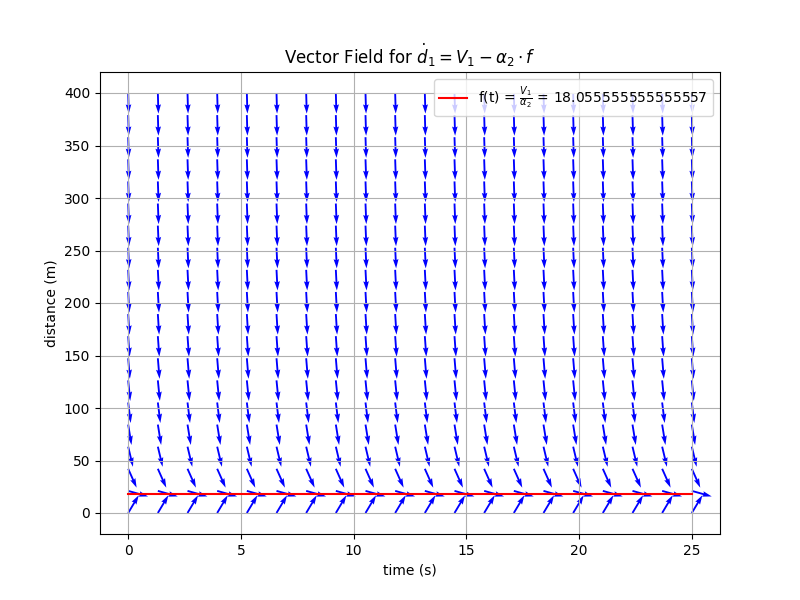
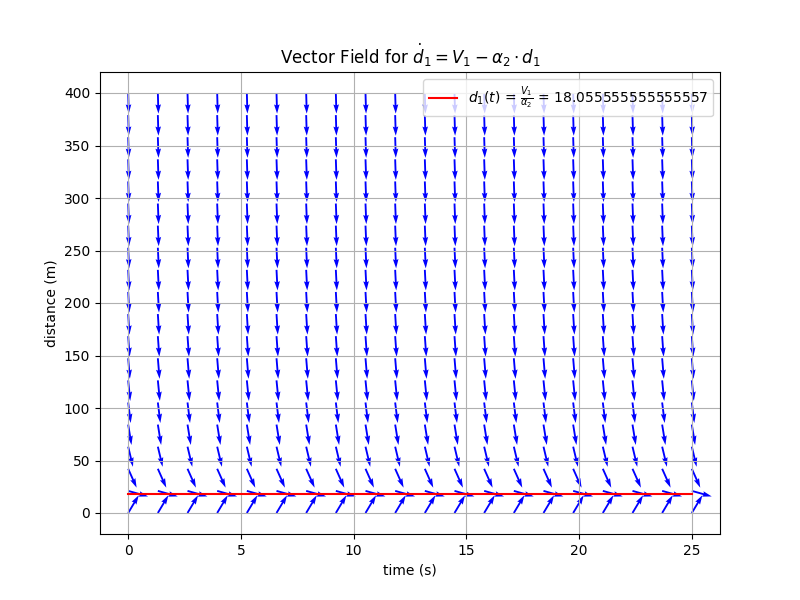
proper graph

Changed region(s): [[0.3438, 0.06, 0.6875, 0.12], [0.6875, 0.15, 0.8438, 0.18], [0.5312, 0.15, 0.6562, 0.18]]

diff --git a/SRTM/EDOMethod/LinearModel/CasTestToLaunch/PythonFile/Model1W2C_Equilibrium_CV_DV.py b/SRTM/EDOMethod/LinearModel/CasTestToLaunch/PythonFile/Model1W2C_Equilibrium_CV_DV.py
@@ -97,7 +97,7 @@ else:
     plt.xlabel('Time (s)')
     plt.ylabel('Distance (m)')
     plt.legend()
-    plt.title('Position of the cars')
+    plt.title('Position of the cars Over the time')
     plt.grid(True)
     plt.show()
 
@@ -123,7 +123,9 @@ if isRealisitic:
     # Plot the figure with all ten graphs
     plt.figure(figsize=(8, 6))  # Optional: Set the figure size
     for i in range(5):
-        plt.plot(t, y_values[i], label=f'x2(t) with a={a}')
+        rc('text', usetex=True)
+        plt.plot(t, y_values[i], label=r'$d_1(t)$ with $\alpha={}$'.format(a))
+        rc('text', usetex=False)
         a=a+0.5
         if isDebug:
             print("valeur de a : ", a)
@@ -139,7 +141,9 @@ if isRealisitic:
     plt.show()
 
     for i in range(5,10):
-        plt.plot(t, y_values[i], label=f'x2(t) with a={a}')
+        rc('text', usetex=True)
+        plt.plot(t, y_values[i], label=r'$d_1(t)$ with $\alpha={}$'.format(a))
+        rc('text', usetex=False)
         #plt.xlim(0, 5)
         a=a+0.5
         if isDebug:
@@ -149,7 +153,7 @@ if isRealisitic:
     plt.ylabel('Distance (m)')
     plt.legend()
     rc('text', usetex=True)
-    plt.title('Analytical solutions of the equilibrium for different ' + r"$\alpha$" + ' values')
+    plt.title("Analytical solutions of the equilibrium for different " + r"$\alpha$" + ' values')
     rc('text', usetex=False)
     plt.grid(True)
     plt.show()
@@ -181,14 +185,14 @@ plt.quiver(T, F, dt, df, angles='xy', scale=30, color='blue')
 
 # Add the red line f(t) = V1/a2
 rc('text', usetex=True)
-plt.plot(t, x1_prime() / a2 * np.ones_like(t), 'r', label=f'f(t) = $\\frac{{V_1}}{{\\alpha_2}}$ = {x1_prime() / a2}')
+plt.plot(t, x1_prime() / a2 * np.ones_like(t), 'r', label=f'$d_1(t)$ = $\\frac{{V_1}}{{\\alpha_2}}$ = {x1_prime() / a2}')
 rc('text', usetex=False)
 
 plt.xlabel('time (s)')
 plt.ylabel('distance (m)')
 
 rc('text', usetex=True)
-plt.title('Vector Field for ' + r"$\dot{d}_1 = V_1 - \alpha_2 \cdot f$")
+plt.title('Vector Field for ' + r"$\dot{d}_1 = V_1 - \alpha_2 \cdot d_1$")
 rc('text', usetex=False)
 plt.legend()
 plt.grid()
